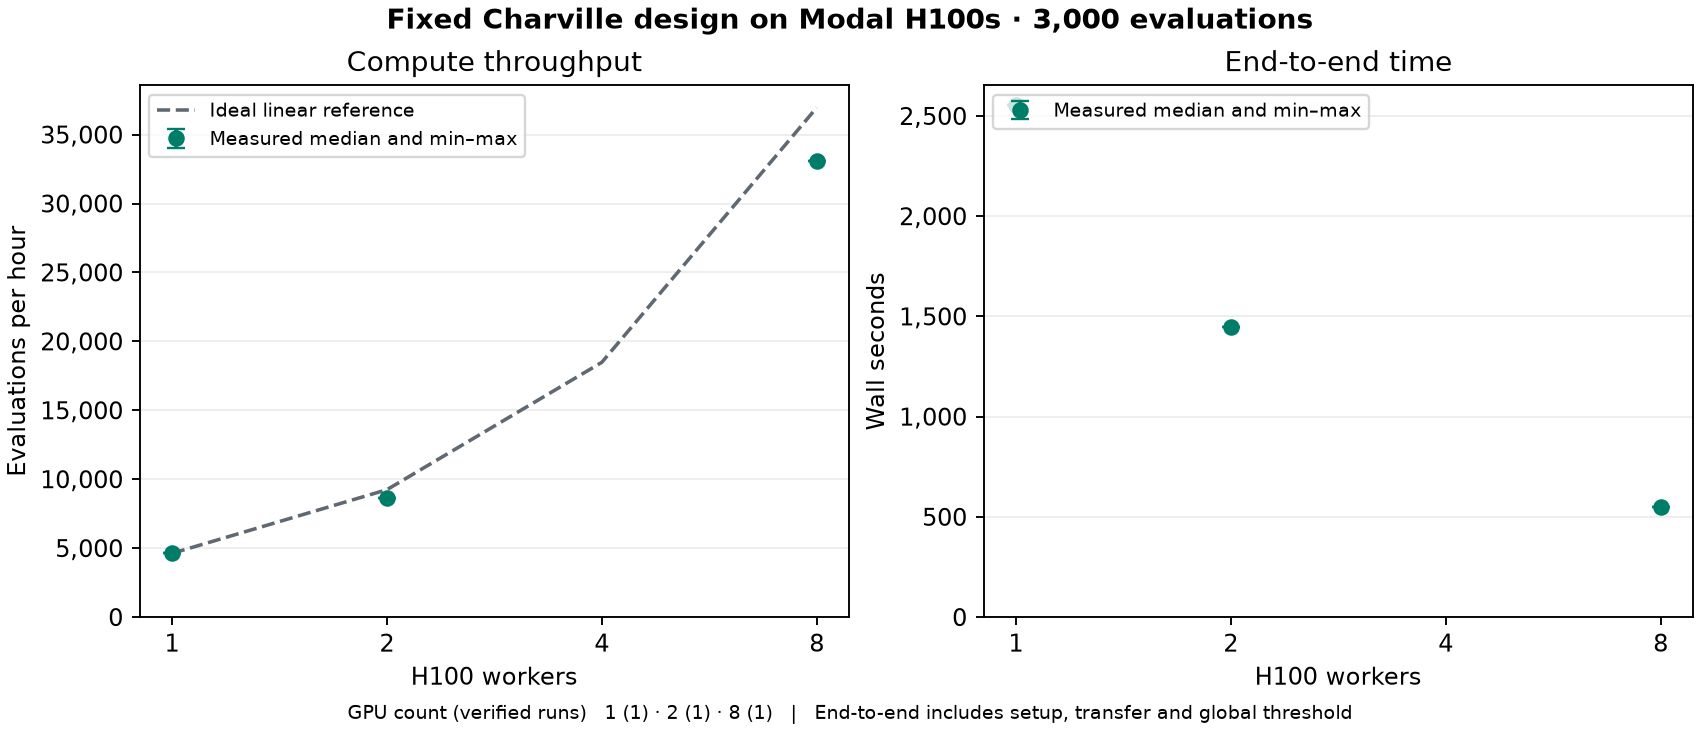
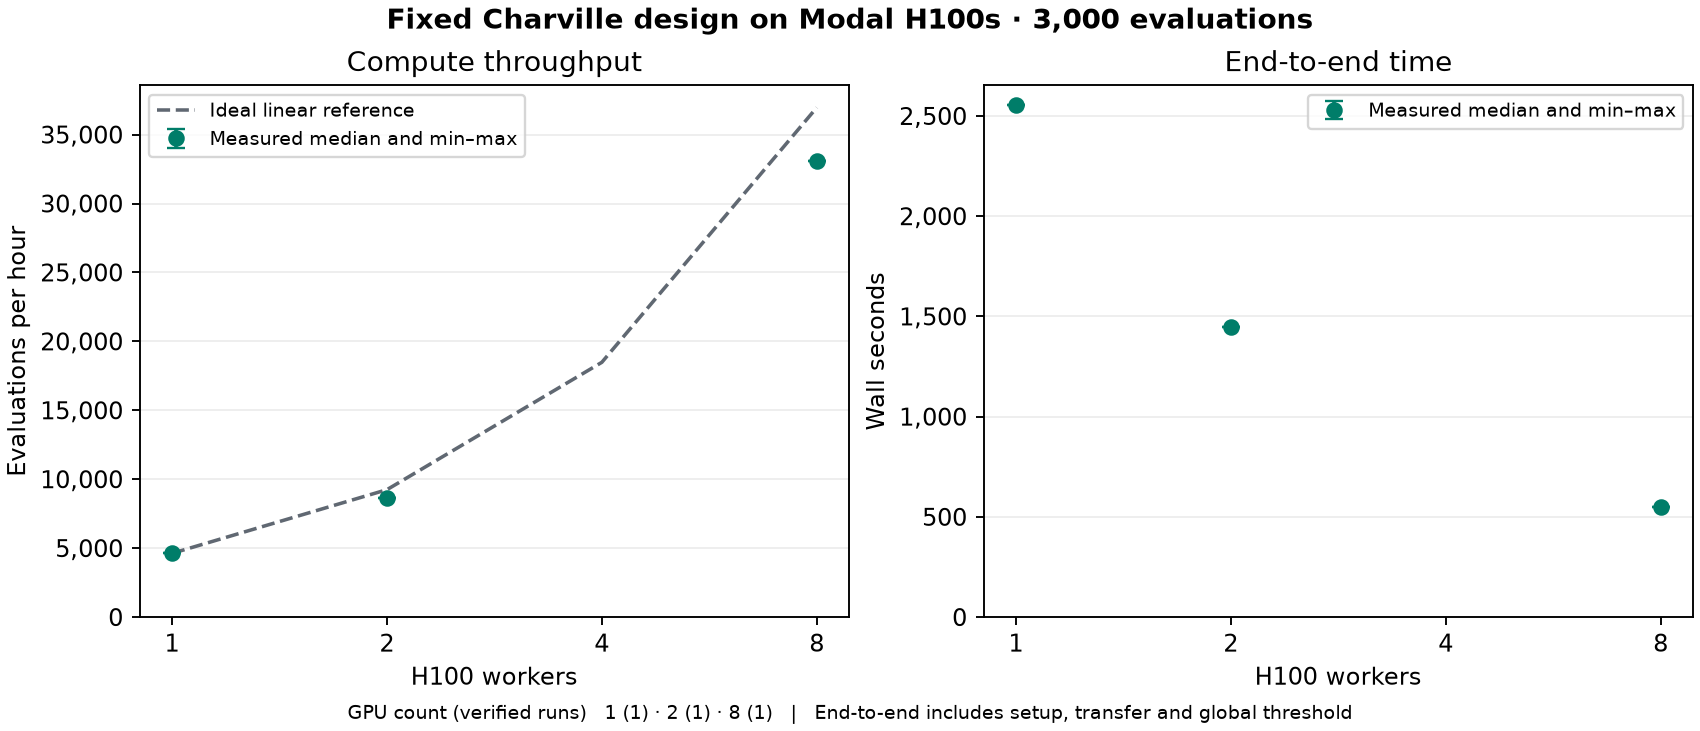
bench: keep baseline visible in scaling chart

Changed region(s): [[0.5924, 0.1204, 0.9976, 0.1806]]

diff --git a/bench/plot_h100_design.py b/bench/plot_h100_design.py
@@ -60,7 +60,7 @@ def plot(paths: list[Path], out: Path) -> None:
         ax.set_xticks(ticks, [str(n) for n in ticks])
         ax.yaxis.set_major_formatter(StrMethodFormatter("{x:,.0f}"))
         ax.grid(axis="y", alpha=.22)
-        ax.legend(loc="upper left", fontsize=8)
+        ax.legend(loc="upper left" if ax is axes[0] else "upper right", fontsize=8)
     counts = " · ".join(f"{n} ({len(points[n])})" for n in sizes)
     fig.supxlabel(f"GPU count (verified runs)   {counts}   |   End-to-end includes setup, transfer and global threshold", fontsize=8)
     fig.savefig(out, dpi=170)
